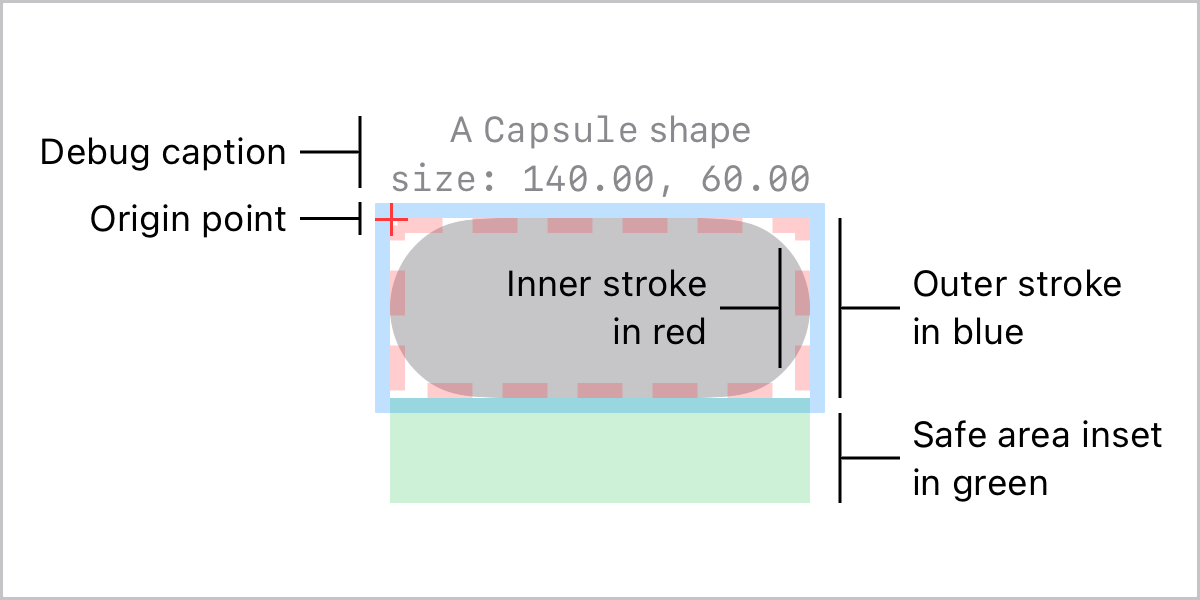
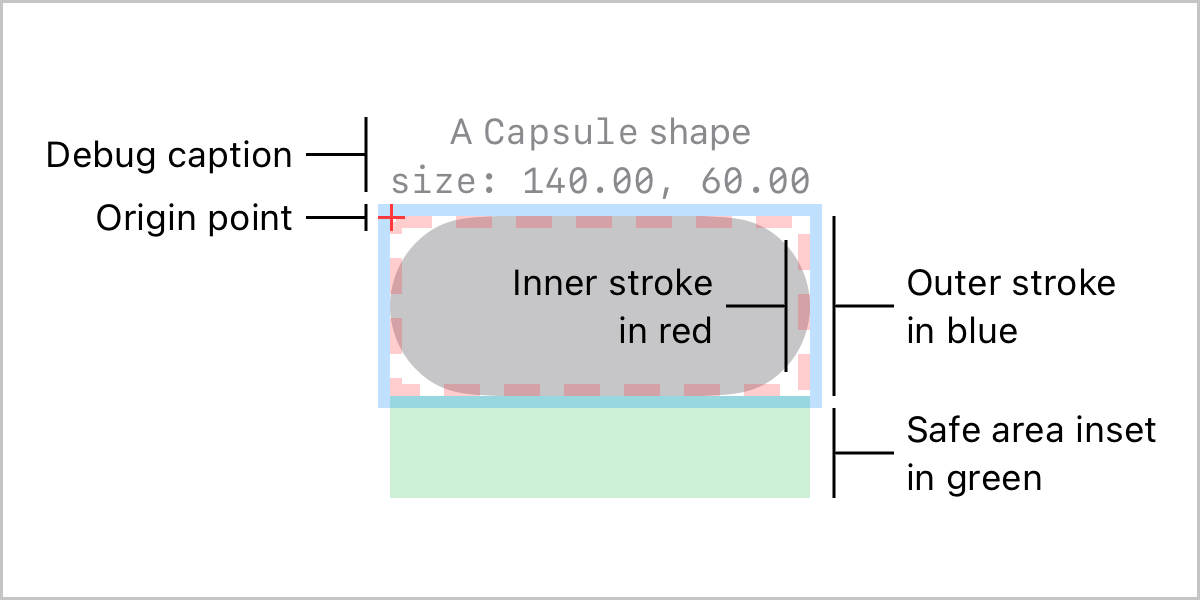
use calipers for the components illustration

diff --git a/sources/illustrations/DebugGeometryModifier+Illustrations.swift b/sources/illustrations/DebugGeometryModifier+Illustrations.swift
@@ -34,7 +34,6 @@ extension DebugGeometryModifier.Illustrations {
         } // DocumentationIllustration
     }
 
-    // FIXME: Use calipers here.
 
     /// Illustration of the components of the `debugGeometry`.
     static var components: DocumentationIllustration {
@@ -43,108 +42,41 @@ extension DebugGeometryModifier.Illustrations {
             .fill(.gray.secondary)
             .frame(width: 140, height: 60)
             .debugGeometry(.caption("A `Capsule` shape"), .size, .alignment(.outerTop))
-            .overlay {
-                // Outer stroke.
-                FloatingAlignedContainer(alignment: .outerTrailing, spacing: 10) { contentAlignments in
-                    HStack(spacing: 4) {
-                        GeometryReader { geometry in
-                            Path { path in
-                                path.move(to: .zero)
-                                path.addLine(to: [.zero, geometry.size.height])
-                                path.move(to: [.zero, geometry.size.height/2])
-                                path.addLine(to: [geometry.size.width, geometry.size.height/2])
-                            }
-                            .stroke(.primary, lineWidth: 1)
-                        }
-                        .frame(size: [20, 60])
-
-                        Text.caption("Outer stroke\nin blue")
-                            .multilineTextAlignment(contentAlignments.text)
-                    }
-                }
-
-                // Safe area inset.
-                FloatingAlignedContainer(alignment: .outerTrailingUnder, spacing: 5) { contentAlignments in
-                    HStack(spacing: 4) {
-                        GeometryReader { geometry in
-                            Path { path in
-                                path.move(to: .zero)
-                                path.addLine(to: [.zero, geometry.size.height])
-                                path.move(to: [.zero, geometry.size.height/2])
-                                path.addLine(to: [geometry.size.width, geometry.size.height/2])
-                            }
-                            .stroke(.primary, lineWidth: 1)
-                        }
-                        .frame(size: [20, 30])
-
-                        Text.caption("Safe area inset\nin green")
-                            .multilineTextAlignment(contentAlignments.text)
-                    }
-                    .offset(x: 5)
-                }
-
-                // Inner stroke.
-                FloatingAlignedContainer(alignment: .innerTrailing, spacing: 10) { contentAlignments in
-                    HStack(spacing: 4) {
-                        Text.caption("Inner stroke\nin red")
-                            .multilineTextAlignment(contentAlignments.text)
-
-                        GeometryReader { geometry in
-                            Path { path in
-                                path.move(to: [geometry.size.width, .zero])
-                                path.addLine(to: [geometry.size.width, geometry.size.height])
-                                path.move(to: [.zero, geometry.size.height/2])
-                                path.addLine(to: [geometry.size.width, geometry.size.height/2])
-                            }
-                            .stroke(.primary, lineWidth: 1)
-                        }
-                        .frame(size: [20, 40])
-                    }
-                }
-
-                // Origin point.
-                FloatingAlignedContainer(alignment: .outerLeadingTop, spacing: 10) { contentAlignments in
-                    HStack(spacing: 4) {
-                        Text.caption("Origin point")
-                            .multilineTextAlignment(contentAlignments.text)
-
-                        GeometryReader { geometry in
-                            Path { path in
-                                path.move(to: [geometry.size.width, .zero])
-                                path.addLine(to: [geometry.size.width, geometry.size.height])
-                                path.move(to: [.zero, geometry.size.height/2])
-                                path.addLine(to: [geometry.size.width, geometry.size.height/2])
-                            }
-                            .stroke(.primary, lineWidth: 1)
-                        }
-                        .frame(size: [20, 11])
-                    }
-                    .offset(y: -17)
-                }
-
-                // Debug caption.
-                FloatingAlignedContainer(alignment: .outerLeadingAbove, spacing: 10) { contentAlignments in
-                    HStack(spacing: 4) {
-                        Text.caption("Debug caption")
-                            .multilineTextAlignment(contentAlignments.text)
-
-                        GeometryReader { geometry in
-                            Path { path in
-                                path.move(to: [geometry.size.width, .zero])
-                                path.addLine(to: [geometry.size.width, geometry.size.height])
-                                path.move(to: [.zero, geometry.size.height/2])
-                                path.addLine(to: [geometry.size.width, geometry.size.height/2])
-                            }
-                            .stroke(.primary, lineWidth: 1)
-                        }
-                        .frame(size: [20, 24])
-                    }
-                }
-            } // overlay
+            .caliperLabel(
+                "Outer stroke\nin blue", to: .leading,
+                span: 60, stem: 20,
+                alignment: .outerTrailing,
+                spacingSize: .square(of: 8)
+            )
+            .caliperLabel(
+                "Safe area inset\nin green", to: .leading,
+                span: 30, stem: 20,
+                alignment: .outerTrailingUnder,
+                spacingSize: [8, 4]
+            )
+            .caliperLabel(
+                "Inner stroke\nin red", to: .trailing,
+                span: 60 - 16, stem: 20,
+                alignment: .innerTrailing,
+                spacingSize: .square(of: 8)
+            )
+            .caliperLabel(
+                "Origin point", to: .trailing,
+                span: 9, stem: 20,
+                alignment: .outerLeadingTop,
+                spacingSize: [8, -4]
+            )
+            .caliperLabel(
+                "Debug caption", to: .trailing,
+                span: 25, stem: 20,
+                alignment: .outerLeadingAbove,
+                spacingSize: [8, 8]
+            )
             .safeAreaInset(edge: .bottom, spacing: .zero) {
-                ClearRectangle().frame(squareOf: 35)
+                ClearRectangle().frame(squareOf: 34)
             }
-            .offset(y: 20)
+            .expandingFrame(alignment: .bottom)
+            .offset(y: -34)
         } // DocumentationIllustration
     }
 }
